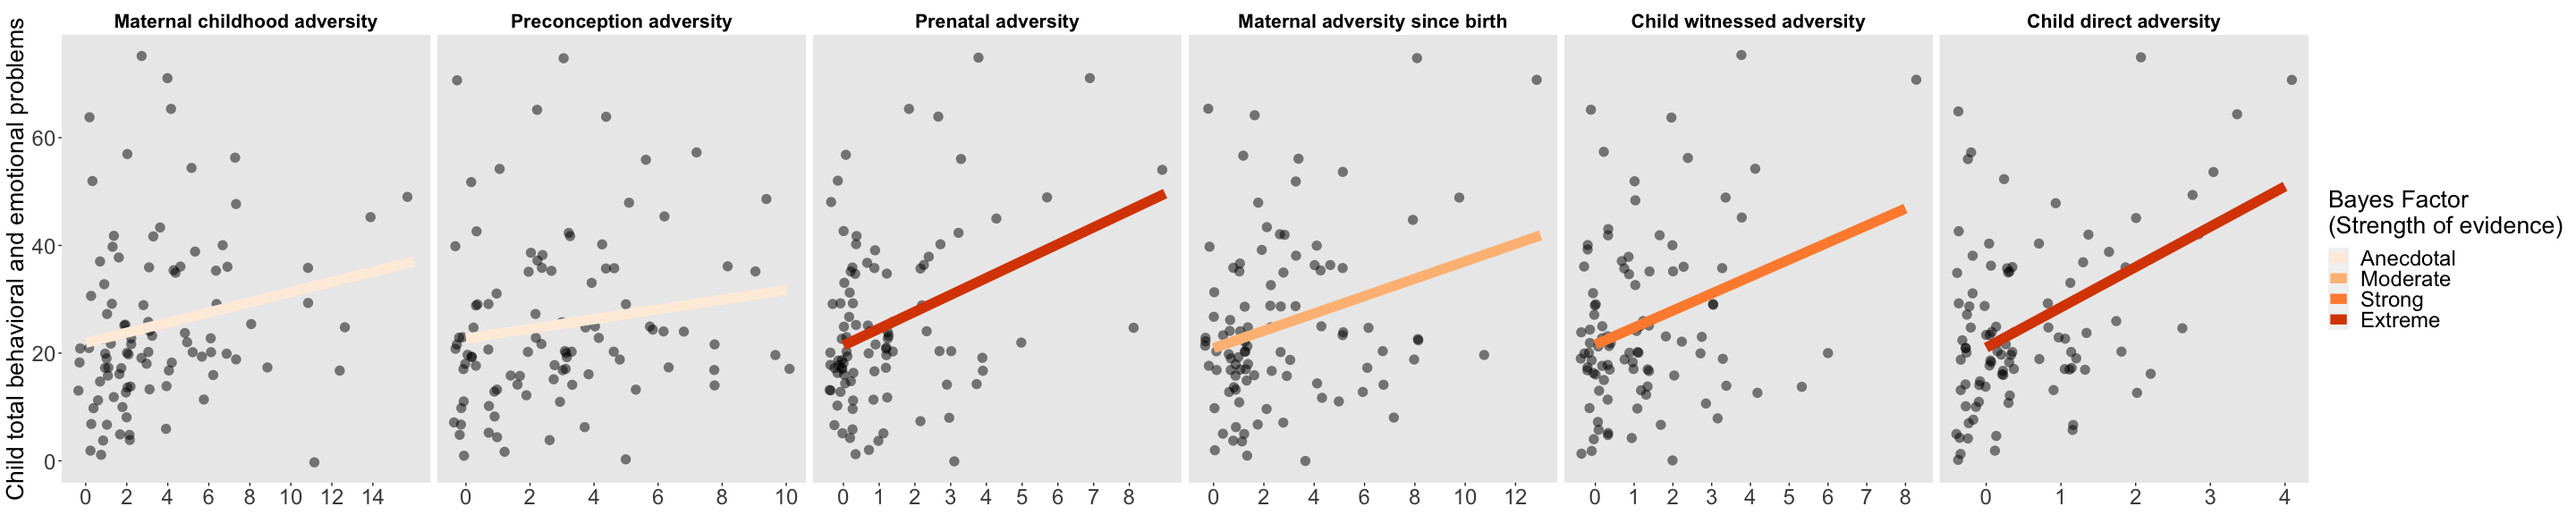
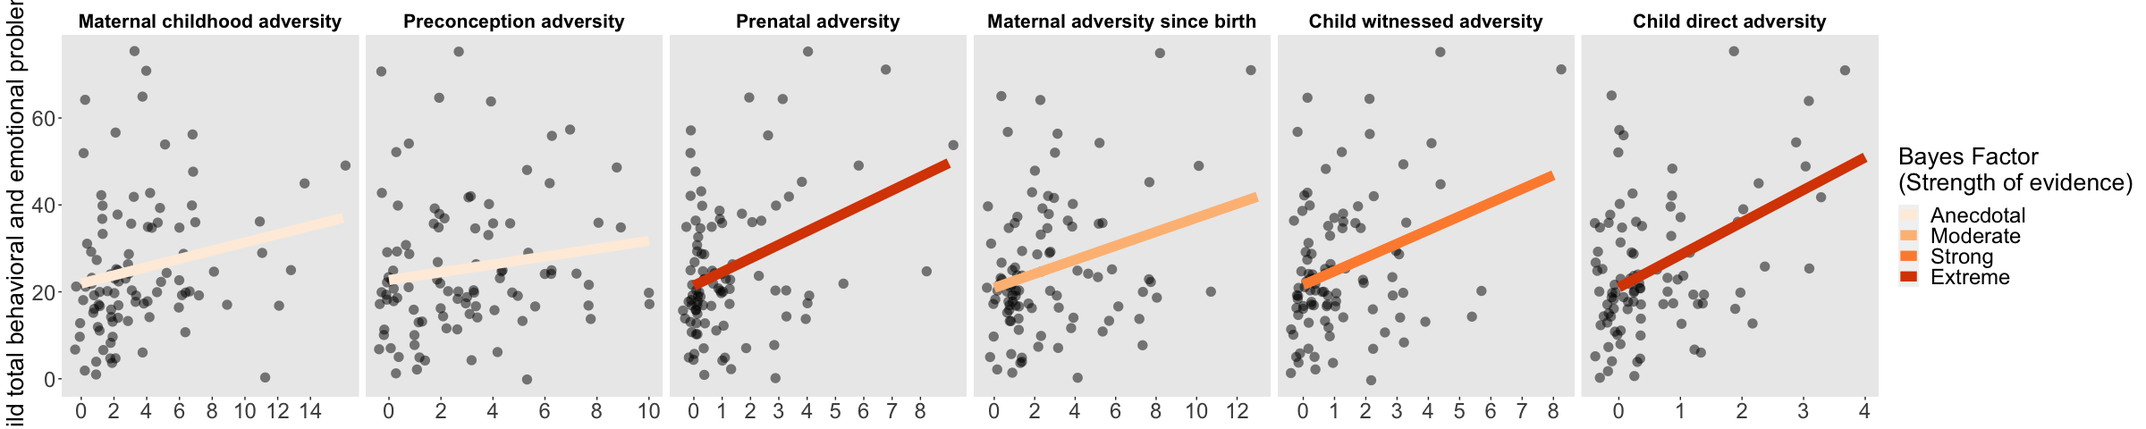
updated plots

diff --git a/king_APCA_validation/apca_manuscript.md b/king_APCA_validation/apca_manuscript.md
@@ -1671,7 +1671,7 @@ apca_corr_plot %>%
 
 ``` r
 ggsave(
-  "~/Box/lucy_king_files/MoD/APCA/figures/correlations.png",
+  "~/Box/lucy_king_files/MoD/APCA/figures/correlations.jpeg",
   dpi = 1000,
   height = 5,
   width = 7.5
@@ -2517,8 +2517,8 @@ ctq_plot
 
 ``` r
 ggsave(
-  "~/Box/lucy_king_files/MoD/APCA/figures/ctq_num_types.png",
-  dpi = 500,
+  "~/Box/lucy_king_files/MoD/APCA/figures/ctq_num_types.jpeg",
+  dpi = 600,
   height = 5,
   width = 6
 )
@@ -3017,8 +3017,8 @@ bces_plot
 
 ``` r
 ggsave(
-  "~/Box/lucy_king_files/MoD/APCA/figures/bces_num_types.png",
-  dpi = 500,
+  "~/Box/lucy_king_files/MoD/APCA/figures/bces_num_types.jpeg",
+  dpi = 600,
   height = 5,
   width = 4
 )
@@ -3034,7 +3034,7 @@ ctq_bces_plots <- arrangeGrob(
 )
 
 ggsave(
-  "~/Box/lucy_king_files/MoD/APCA/figures/ctq_bces_apca_childhood.png",
+  "~/Box/lucy_king_files/MoD/APCA/figures/ctq_bces_apca_childhood.jpeg",
   ctq_bces_plots,
   dpi = 1000,
   height = 5,
@@ -3695,7 +3695,7 @@ df %>%
 
 ``` r
 ggsave(
-  "~/Box/lucy_king_files/MoD/APCA/figures/cesd_bai_adversity.png",
+  "~/Box/lucy_king_files/MoD/APCA/figures/cesd_bai_adversity.jpeg",
   dpi = 1000,
   height = 6,
   width = 14.75
@@ -4042,10 +4042,10 @@ df %>%
 
 ``` r
 ggsave(
-  "~/Box/lucy_king_files/MoD/APCA/figures/total_problems_adversity.png",
+  "~/Box/lucy_king_files/MoD/APCA/figures/total_problems_adversity.jpeg",
   dpi = 1000,
-  height = 6,
-  width = 30
+  height = 4,
+  width = 24
 )
 ```
 
